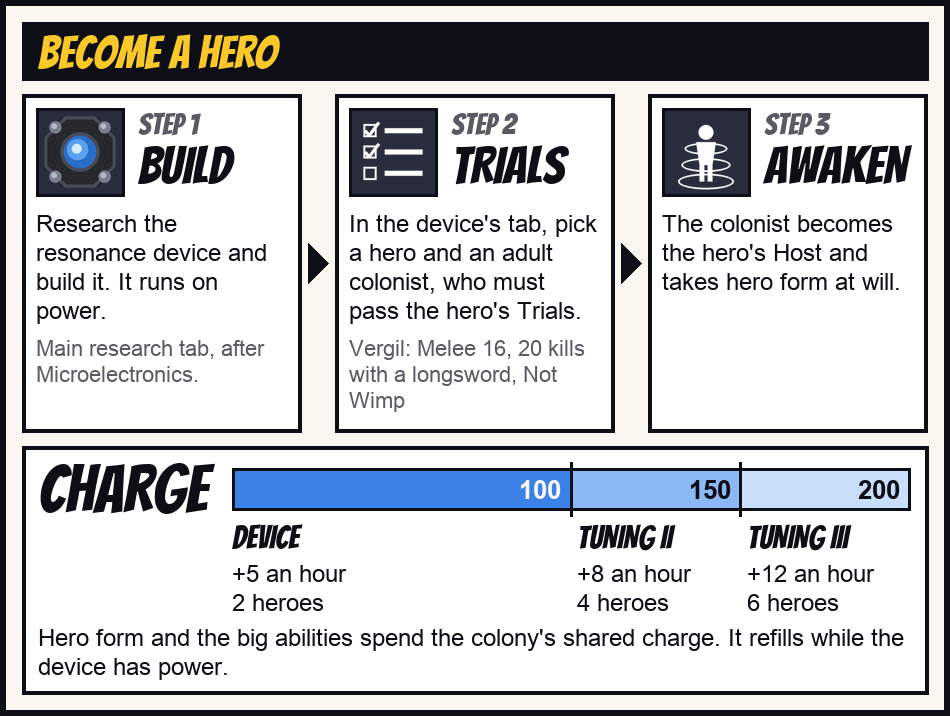
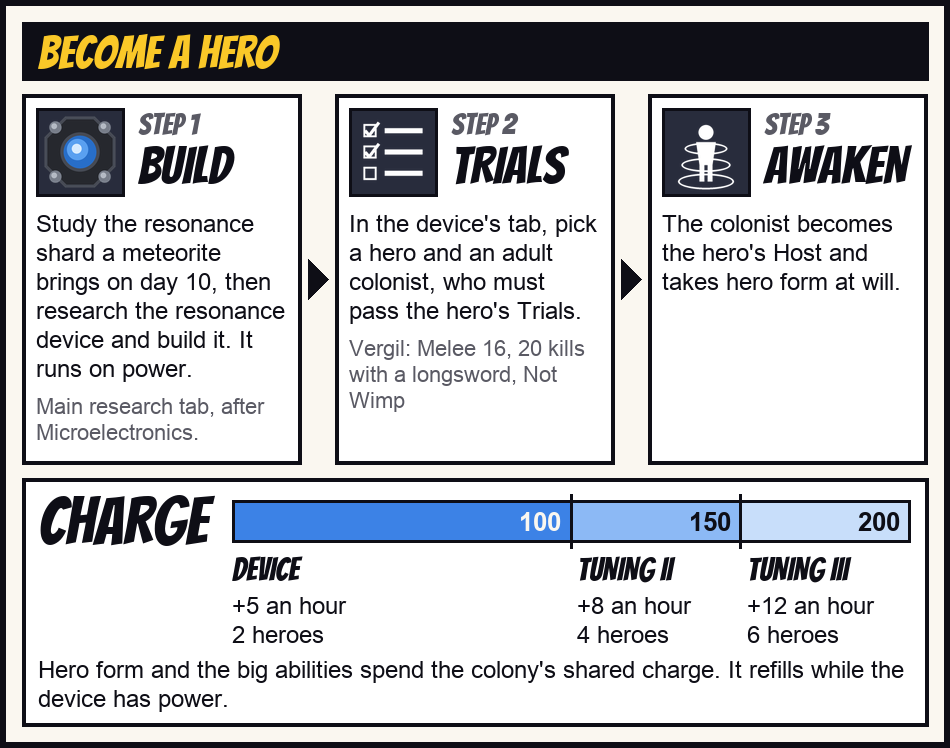
Become a hero: the resonance shard step; page text from the Workshop page (opening, credits, FAQ)

Changed region(s): [[0.0, 0.0307, 0.9768, 0.9525]]

diff --git a/wiki.md b/wiki.md
@@ -2,7 +2,7 @@
 
 # Rim All-Stars
 
-15 heroes from Jujutsu Kaisen, Naruto, Devil May Cry, Fate, Dragon Ball, Demon Slayer, Ajin and A Certain Magical Index (Gojo, Itachi, Vergil, Goku, Pain, Nakime and more), plus 25 weapons and gear, each with its own effects.
+Let your colonists borrow the power of heroes from other worlds: Gojo, Itachi, Vergil, Goku, Pain, Nakime and 9 more, each with their own abilities.
 
 ## Contents
 
@@ -725,7 +725,7 @@ Stops time in a sphere around the wearer: nothing inside moves, burns, bleeds or
 
 ## FAQ
 
-**How do I get a hero?** Research the resonance device, build it, pick a hero and a colonist in its tab, pass the Trials, Awaken.
+**How do I get a hero?** On day 10 a meteorite brings the resonance shard. Study it at a research bench, research the resonance device, build it, pick a hero and a colonist in its tab, pass the Trials, Awaken. The day can be changed in the mod settings (0: at once).
 
 **Two of the same hero?** No. Each hero has one Host per colony.
 
@@ -753,4 +753,4 @@ Reports without a log usually can't be fixed.
 
 ## Credits
 
-Fan work, free and unofficial. Characters, weapons and names belong to their creators: Gege Akutami (Jujutsu Kaisen), Masashi Kishimoto (Naruto), Capcom (Devil May Cry), TYPE-MOON (Fate), Akira Toriyama (Dragon Ball), Koyoharu Gotouge (Demon Slayer), Gamon Sakurai (Ajin), Kazuma Kamachi (A Certain Magical Index), Yoshihiro Togashi (Hunter x Hunter), Re-Logic (Terraria), Project Moon (Lobotomy Corporation), Firaxis (XCOM 2). Not affiliated with them or with Ludeon Studios.
+Fan work, free and unofficial. All characters, weapons and names belong to their original creators. Not affiliated with them or with Ludeon Studios.
